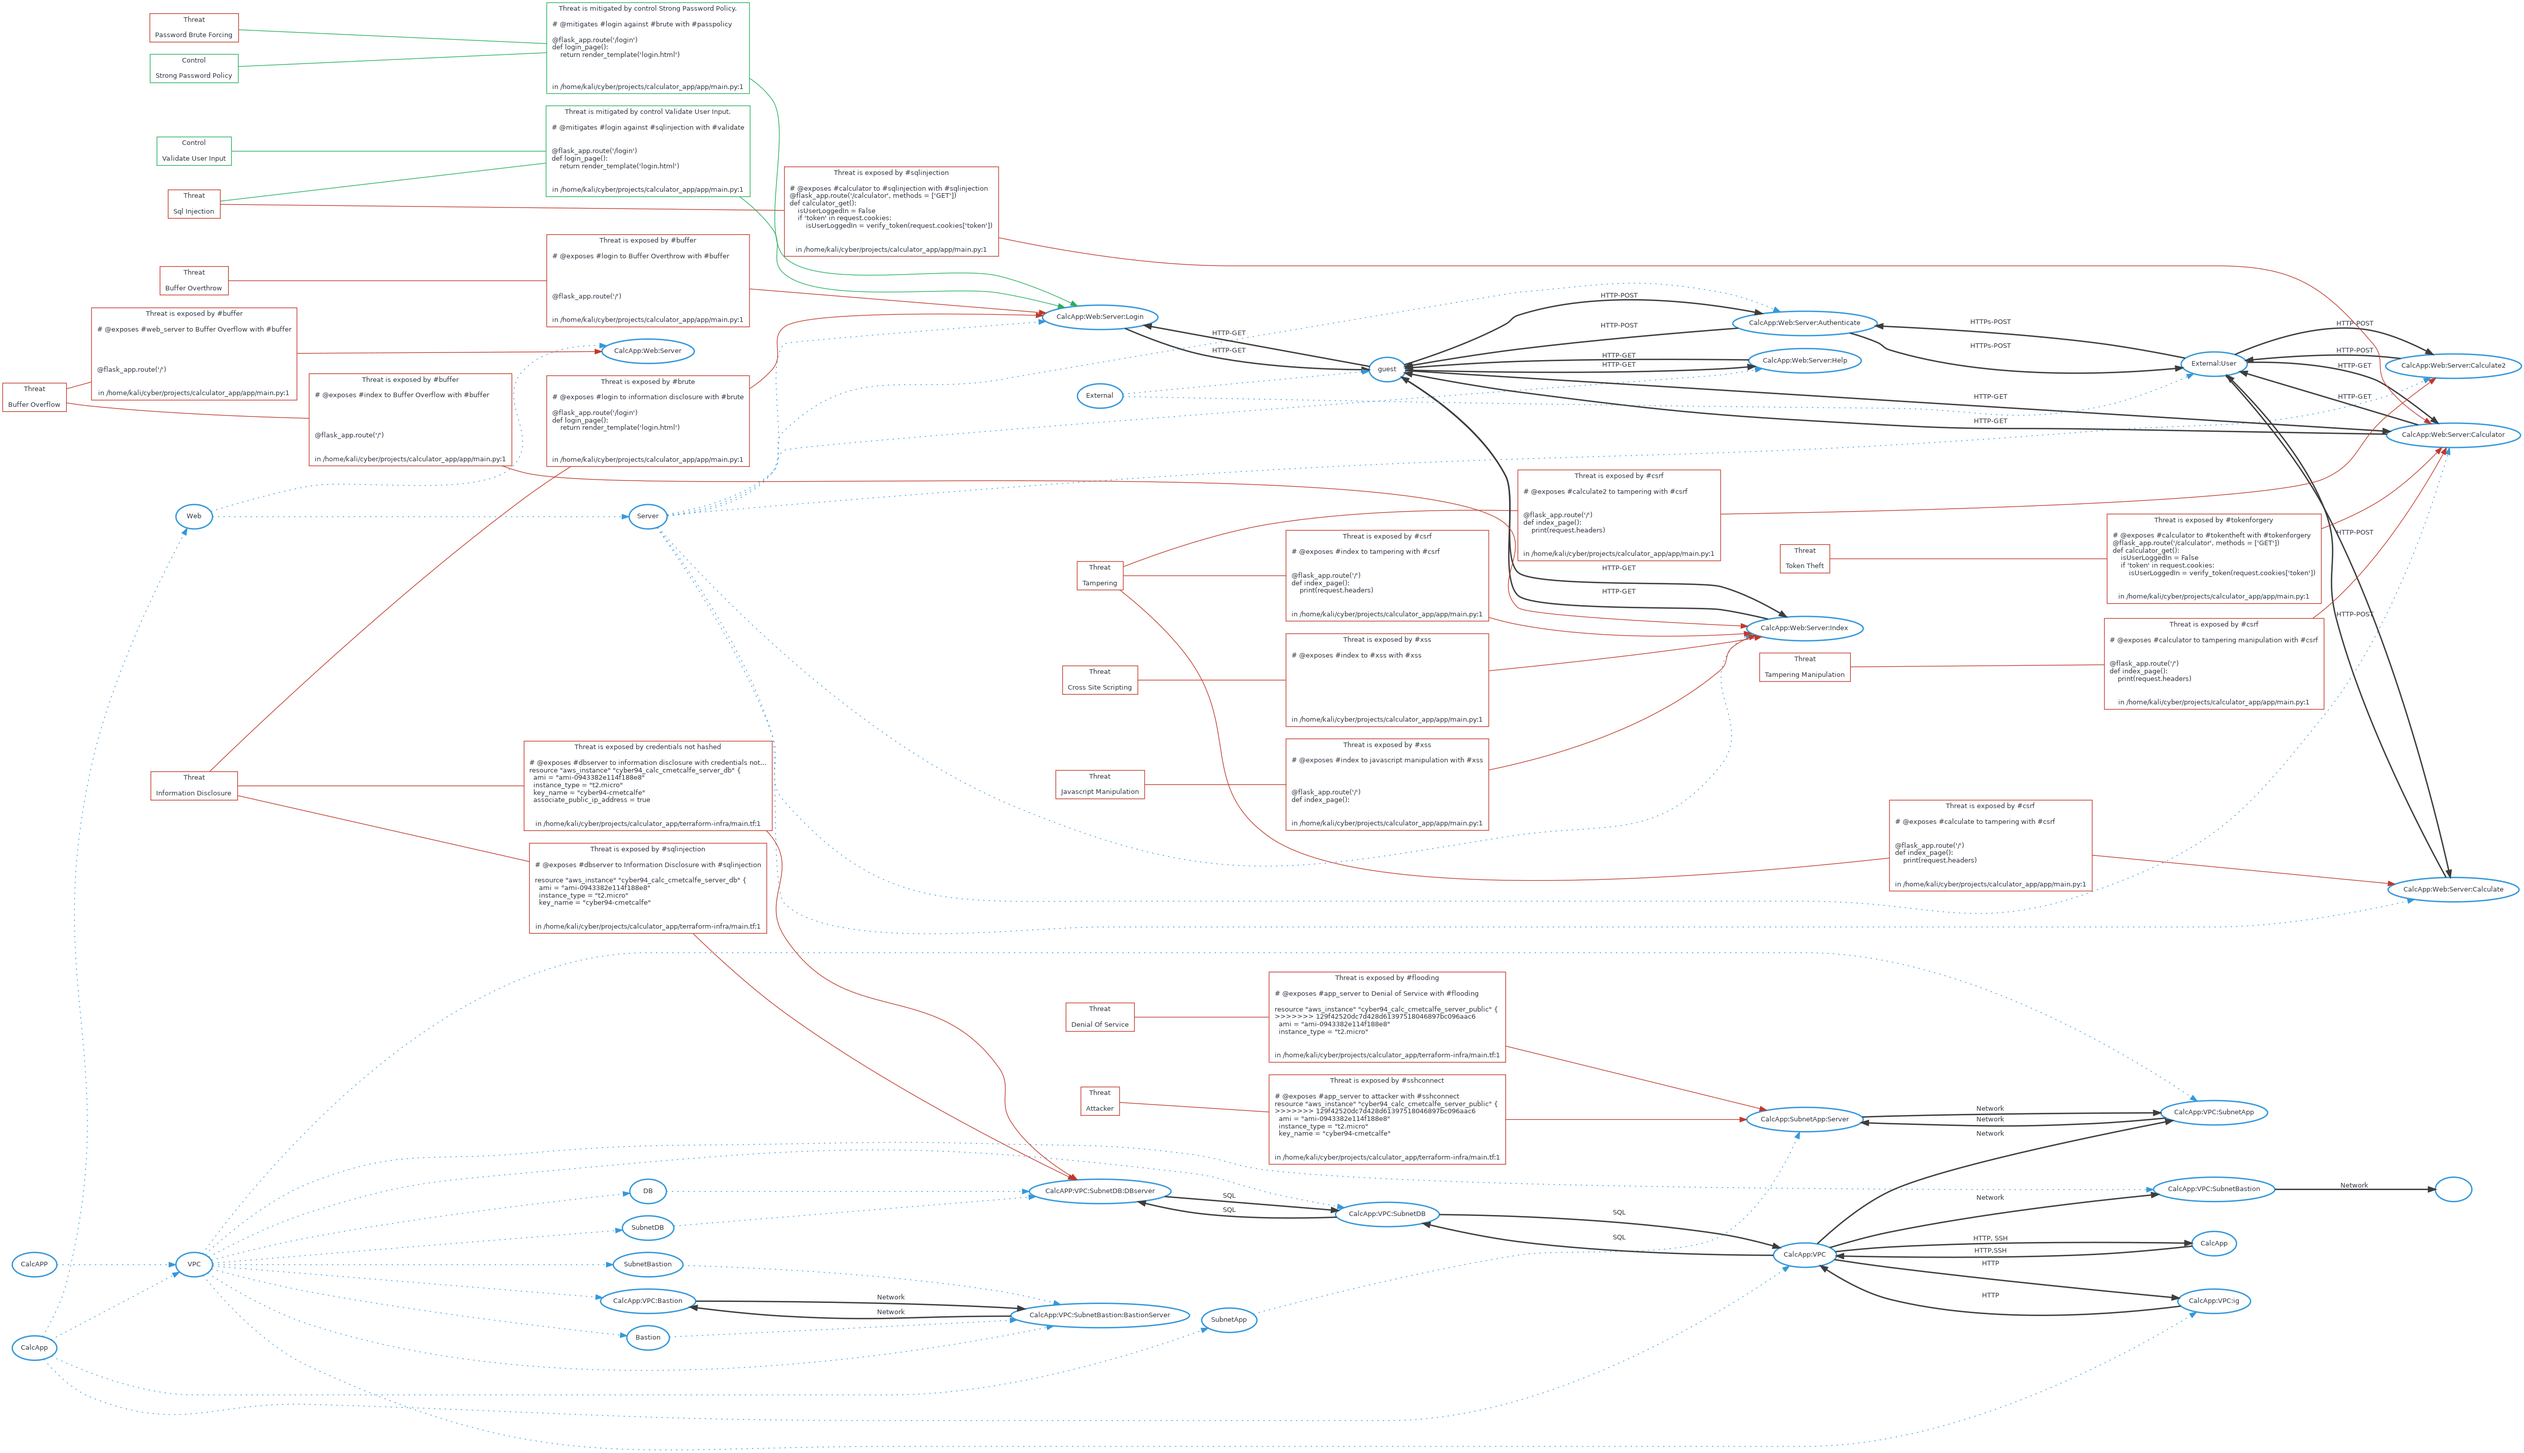
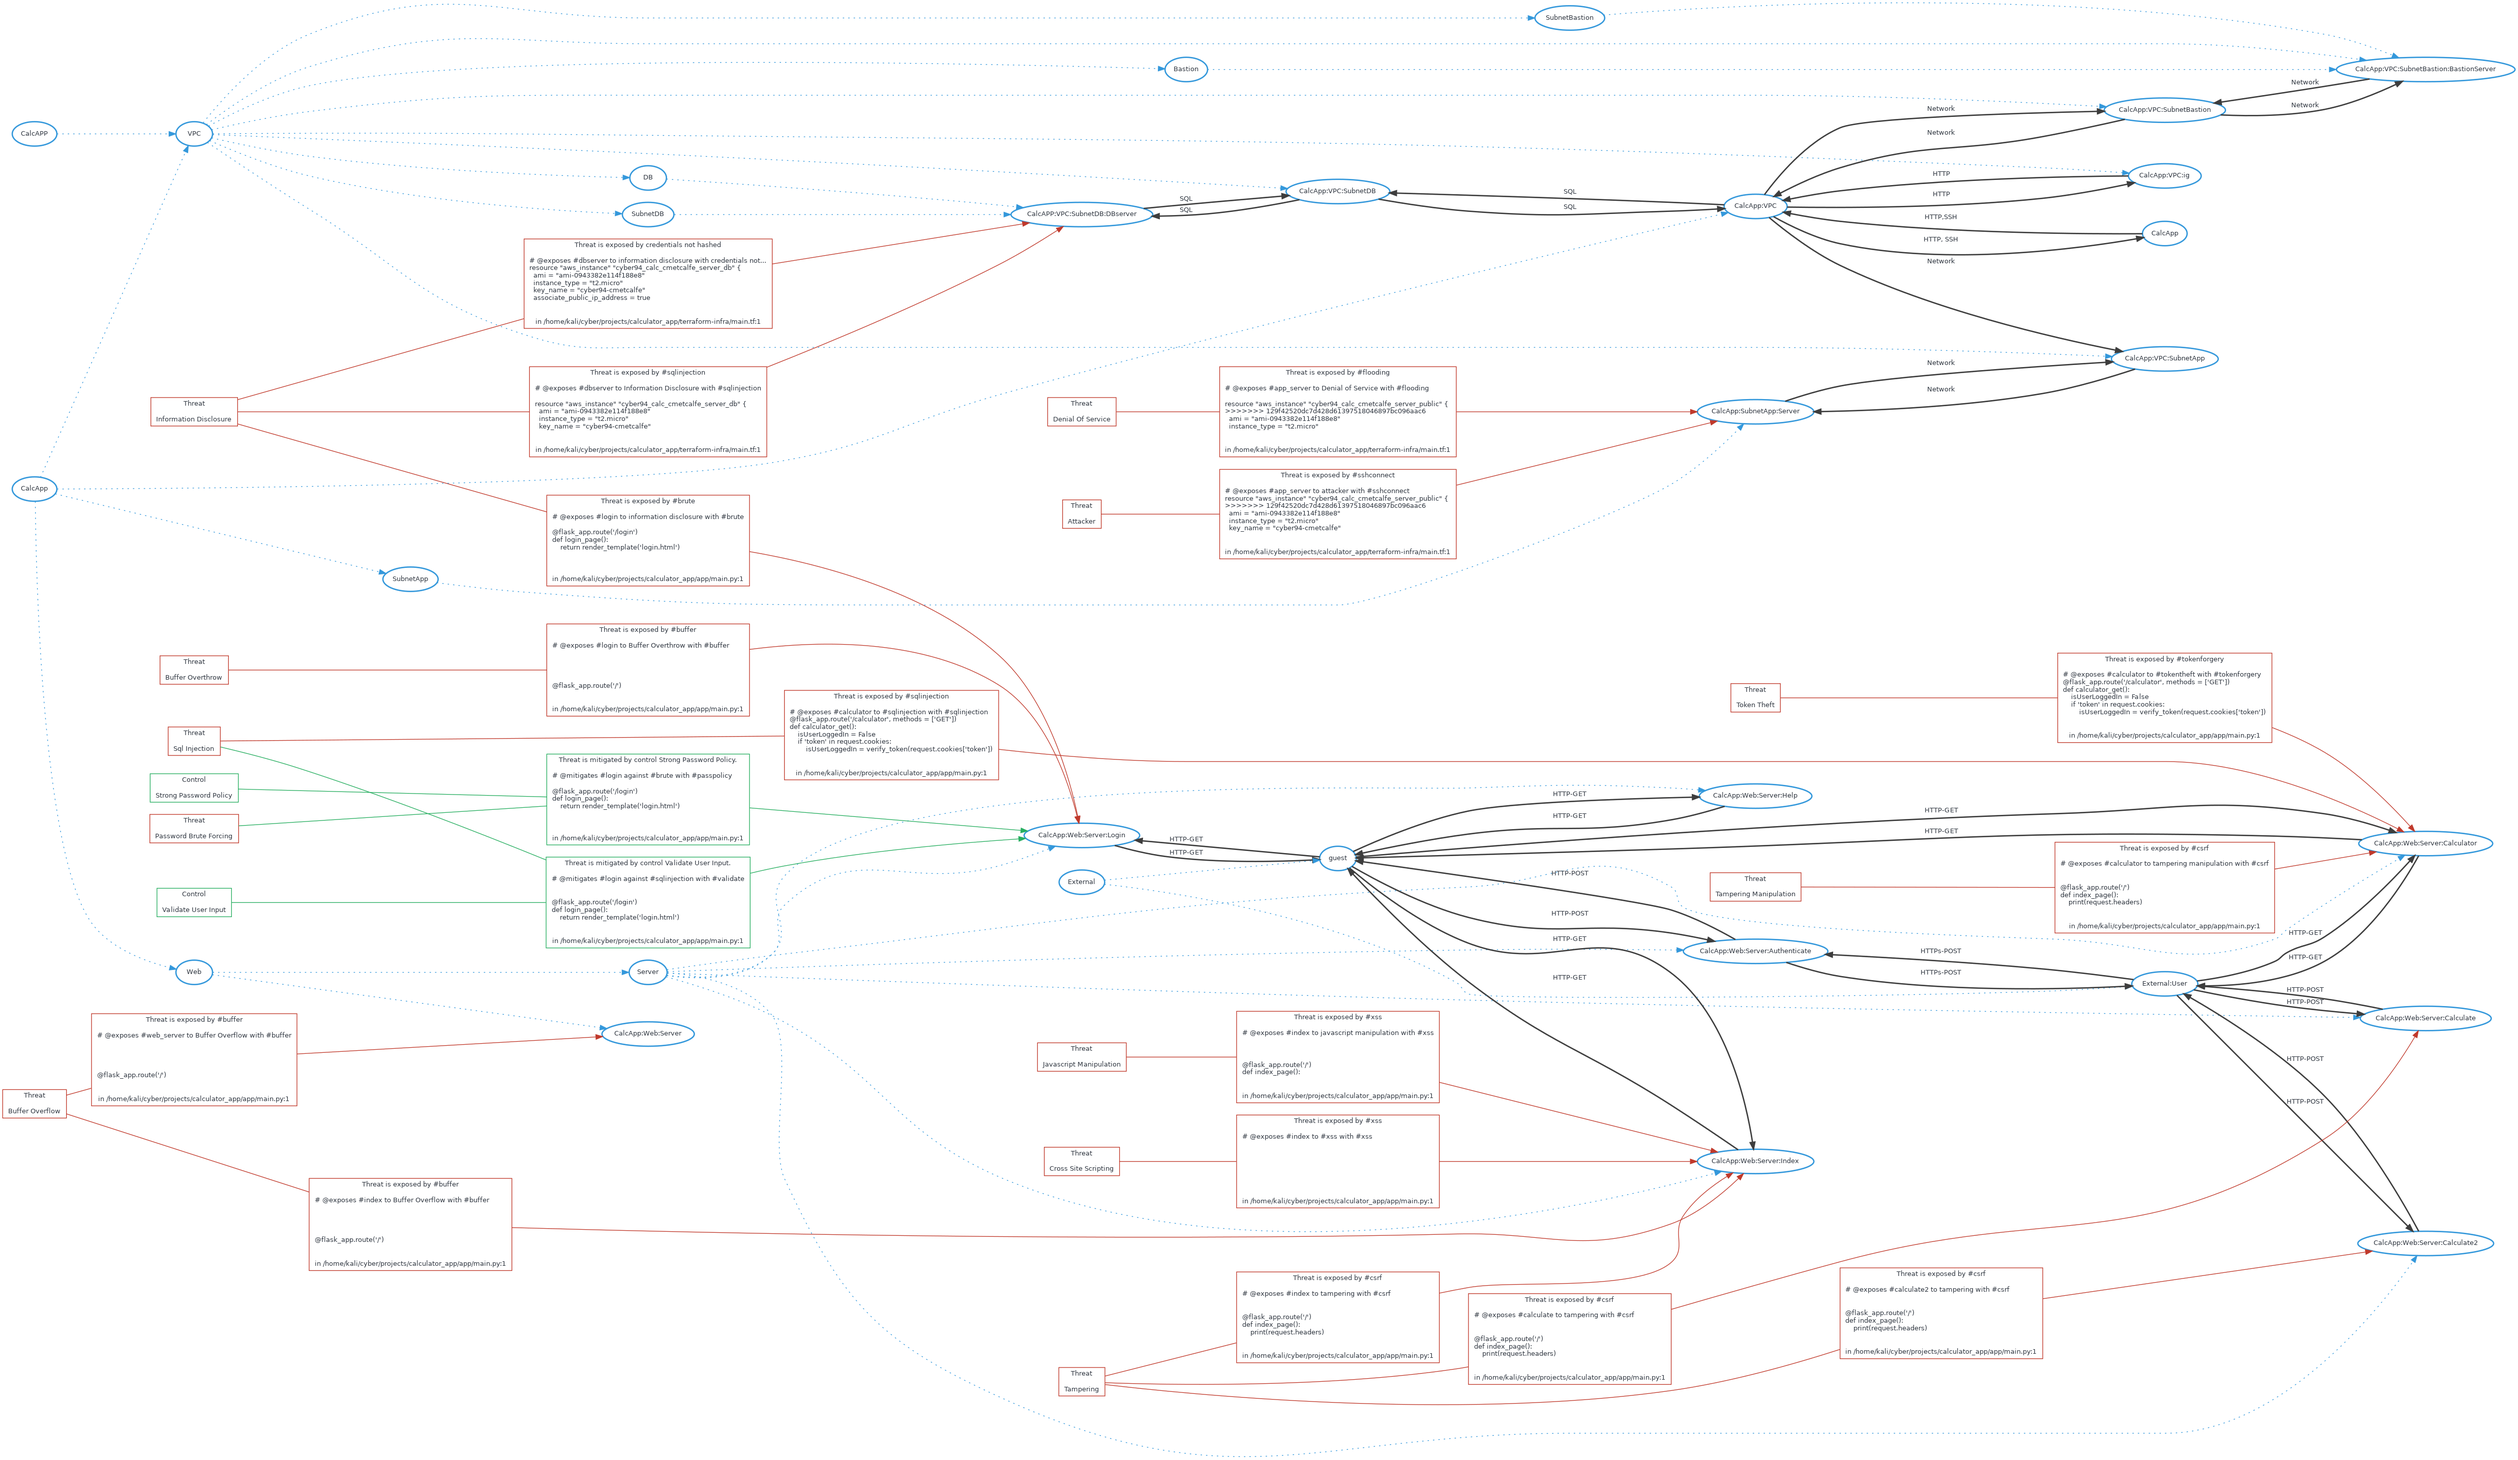
add more connections

diff --git a/ThreatModel.md b/ThreatModel.md
@@ -641,11 +641,11 @@ resource "aws_subnet" "cyber94_calc_cmetcalfe_subnet_bastion_tf" {
 ```
 /home/kali/cyber/projects/calculator_app/terraform-infra/main.tf:1
 
-## CalcApp:VPC:SubnetBastion To 
+## CalcApp:VPC:SubnetBastion To CalcApp:VPC
 Network
 
 ```
-# @connects #subnet_bastion to #vps with Network
+# @connects #subnet_bastion to #vpc with Network
 
 resource "aws_subnet" "cyber94_calc_cmetcalfe_subnet_bastion_tf" {
   vpc_id = aws_vpc.cyber94_calc_cmetcalfe_vpc_tf.id
@@ -655,11 +655,11 @@ resource "aws_subnet" "cyber94_calc_cmetcalfe_subnet_bastion_tf" {
 ```
 /home/kali/cyber/projects/calculator_app/terraform-infra/main.tf:1
 
-## CalcApp:VPC:Bastion To CalcApp:VPC:SubnetBastion:BastionServer
+## CalcApp:VPC:SubnetBastion To CalcApp:VPC:SubnetBastion:BastionServer
 Network
 
 ```
-# @connects #bastion to #bastion_server with Network
+# @connects #subnet_bastion to #bastion_server with Network
 resource "aws_instance" "cyber94_calc_cmetcalfe_server_bastion" {
   ami = "ami-0943382e114f188e8"
   instance_type = "t2.micro"
@@ -669,11 +669,11 @@ resource "aws_instance" "cyber94_calc_cmetcalfe_server_bastion" {
 ```
 /home/kali/cyber/projects/calculator_app/terraform-infra/main.tf:1
 
-## CalcApp:VPC:SubnetBastion:BastionServer To CalcApp:VPC:Bastion
+## CalcApp:VPC:SubnetBastion:BastionServer To CalcApp:VPC:SubnetBastion
 Network
 
 ```
-# @connects #bastion_server to #bastion with Network
+# @connects #bastion_server to #subnet_bastion with Network
 resource "aws_instance" "cyber94_calc_cmetcalfe_server_bastion" {
   ami = "ami-0943382e114f188e8"
   instance_type = "t2.micro"
@@ -775,10 +775,6 @@ resource "aws_instance" "cyber94_calc_cmetcalfe_server_db" {
 ## CalcApp:VPC:SubnetApp
 
 ## CalcApp:VPC:SubnetBastion
-
-## 
-
-## CalcApp:VPC:Bastion
 
 ## CalcApp:VPC:SubnetBastion:BastionServer
 
